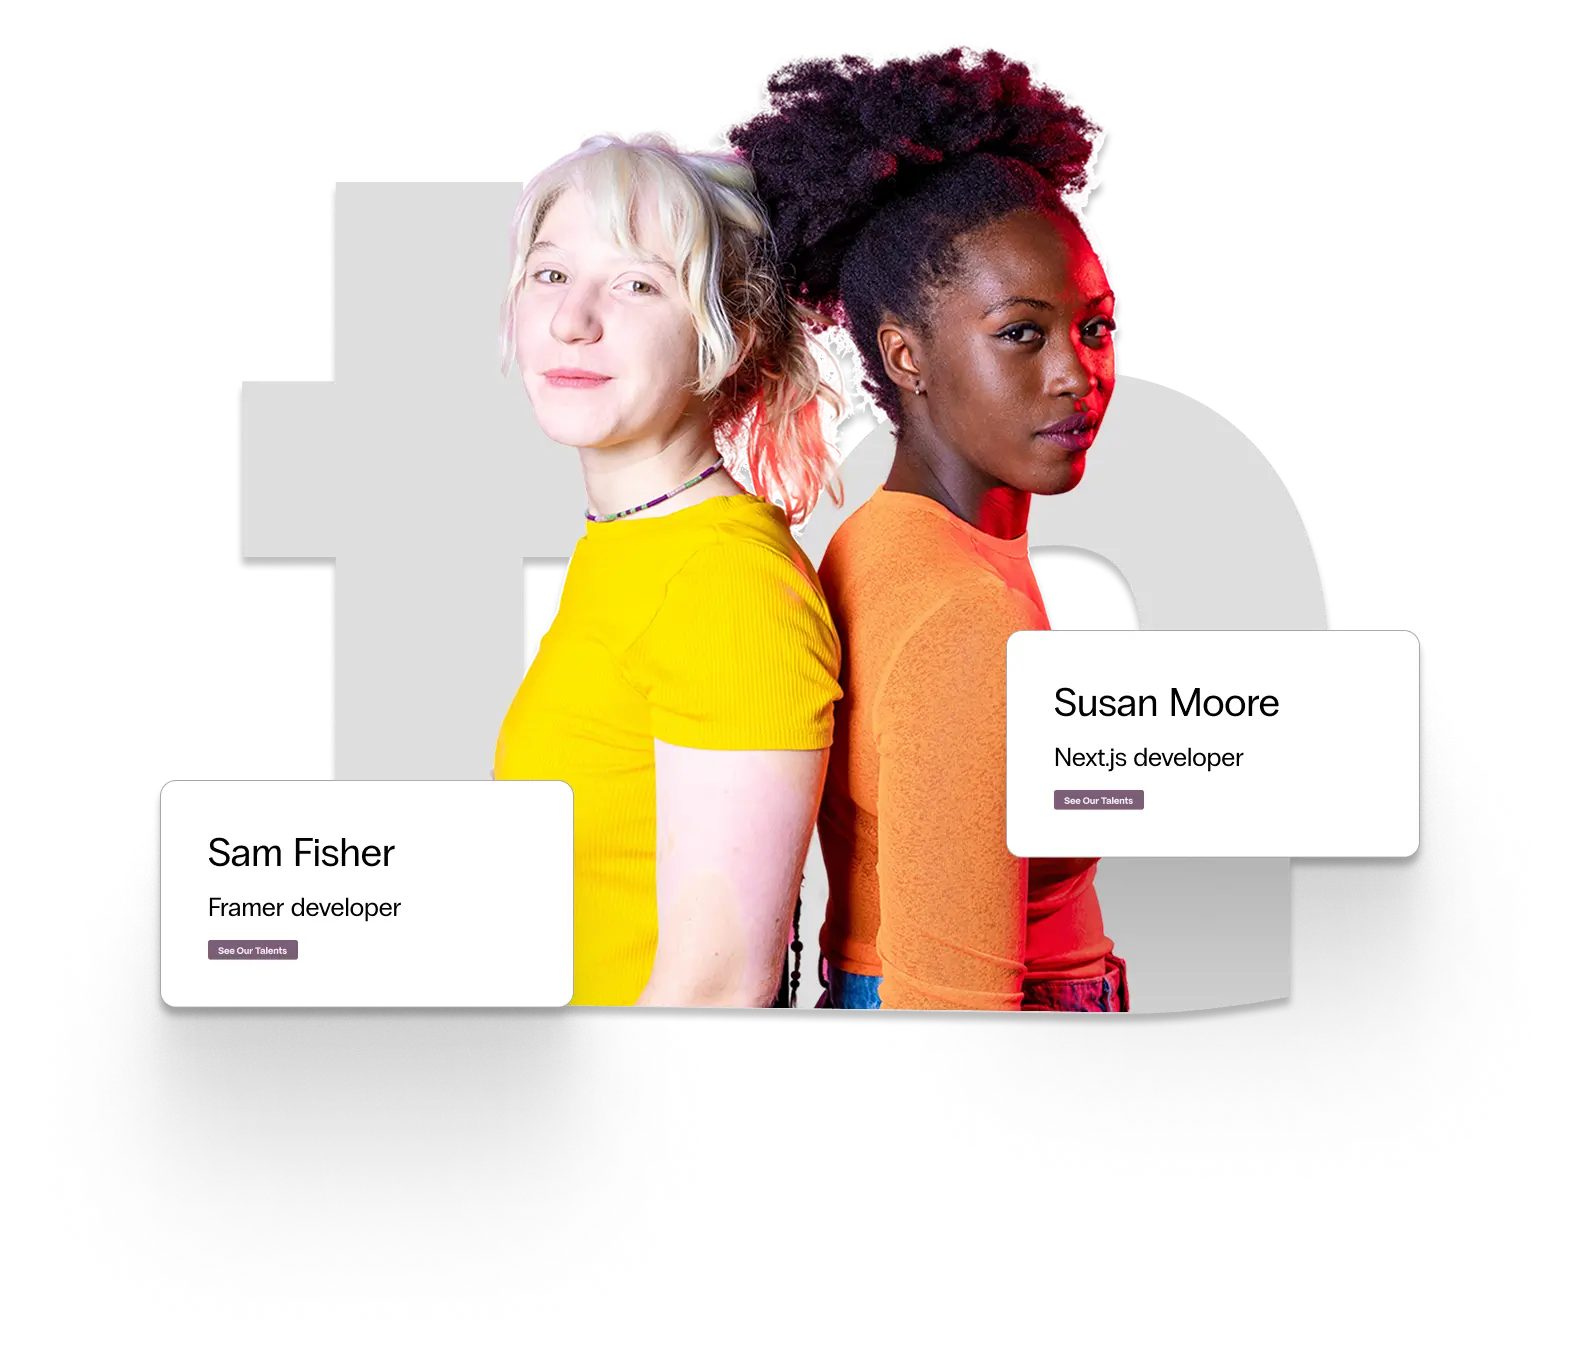
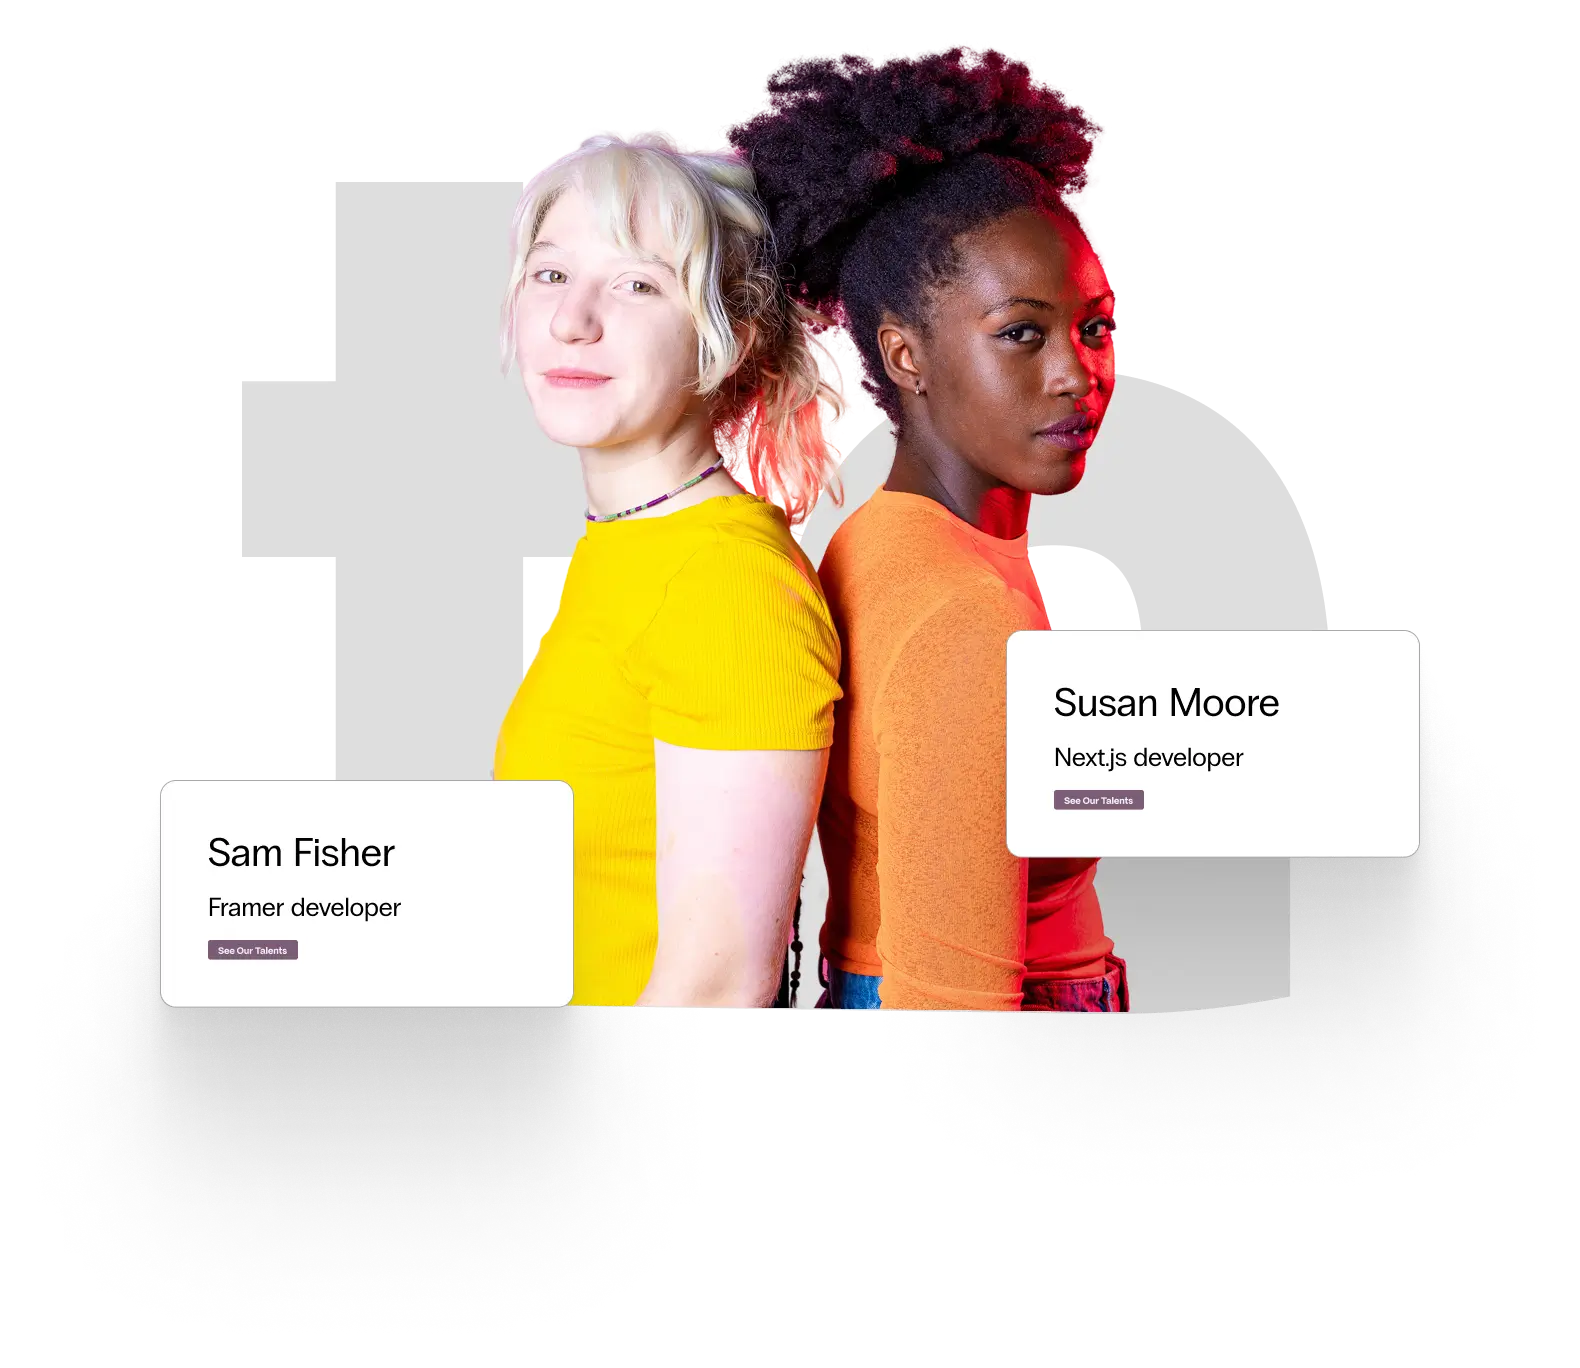
Update CTA section styling and image dimensions

diff --git a/src/features/home/components/CtaSection.tsx b/src/features/home/components/CtaSection.tsx
@@ -10,20 +10,20 @@ export default function CtaSection() {
   return (
     <Section padding='lg' className='bg-gray-50 dark:bg-purple-600 '>
       <Container size='lg'>
-        <div className='w-full flex flex-col md:flex-row items-center justify-between rounded-2xl p-8 md:p-12 bg-white dark:bg-gray-900 shadow-xl dark:shadow-gray-800/30 border border-gray-100 dark:border-gray-800'>
+        <div className='w-full flex flex-col md:flex-row items-center justify-between rounded-2xl p-8 md:p-12 bg-white dark:bg-purple-900   border border-gray-100 dark:border-gray-800'>
           <div className='w-full md:w-1/2 relative order-2 md:order-1'>
             <div className='relative'>
               <Image
                 src='/images/cta@2x.webp'
                 alt='Transform Your Digital Experience'
                 width={600}
-                height={600}
+                height={300}
                 className='relative rounded-lg'
                 priority
               />
             </div>
           </div>
-          
+
           <div className='flex flex-col space-y-6 w-full md:w-1/2 md:pl-12 order-1 md:order-2 mb-8 md:mb-0'>
             <div className='space-y-2'>
               <h2 className='text-sm font-semibold text-purple-500 dark:text-purple-100 tracking-wide uppercase'>
@@ -34,16 +34,16 @@ export default function CtaSection() {
               </h2>
             </div>
             <p className='text-lg text-gray-600 dark:text-gray-300'>
-              Join thousands of satisfied users who have already taken their digital presence to the next level. Start your journey with us and see the difference.
+              Join thousands of satisfied users who have already taken their
+              digital presence to the next level. Start your journey with us and
+              see the difference.
             </p>
             <div className='flex flex-col sm:flex-row gap-4'>
-              <Button size="lg" variant="default" className='group'>
+              <Button size='lg' variant='default' className='group'>
                 Get Started Now
-                <ArrowRight className="ml-2 h-4 w-4 transition-transform group-hover:translate-x-1" />
+                <ArrowRight className='ml-2 h-4 w-4 transition-transform group-hover:translate-x-1' />
               </Button>
-              
             </div>
-            
           </div>
         </div>
       </Container>
